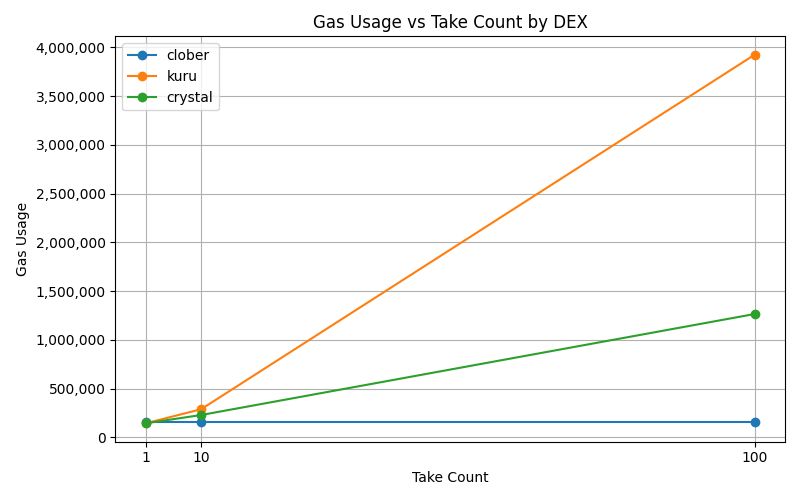
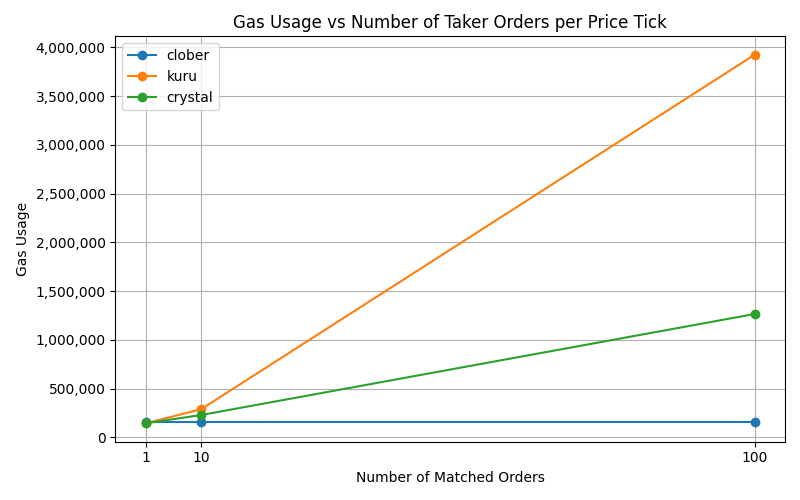
docs: update README.md for clarity on gas usage benchmark and improve plot titles

Changed region(s): [[0.2812, 0.03, 0.8438, 0.06], [0.4375, 0.93, 0.6875, 0.99]]

diff --git a/plot_take_results.py b/plot_take_results.py
@@ -48,8 +48,8 @@ for dex, results in data.items():
     gas_values = [results[c] for c in counts]
     plt.plot(counts, gas_values, marker='o', label=dex)
 
-plt.title("Gas Usage vs Take Count by DEX")
-plt.xlabel("Take Count")
+plt.title("Gas Usage vs Number of Taker Orders per Price Tick")
+plt.xlabel("Number of Matched Orders")
 plt.ylabel("Gas Usage")
 plt.xticks(xticks)
 plt.grid(True)

diff --git a/README.md b/README.md
@@ -1,10 +1,6 @@
 # Gas Usage Benchmark for Take Operations
 
-This benchmark measures the gas usage when taking multiple orders in a single tick across different DEX implementations.
-
-## 📊 Results
-
-Gas usage for **take operations** after placing `N` orders in the same tick:
+This benchmark measures the gas cost of executing a taker order that matches against N maker orders resting at the same price level.
 
 | DEX                                  | N = 1   | N = 10  | N = 100  |
 |--------------------------------------|---------|---------|----------|
@@ -14,7 +10,18 @@ Gas usage for **take operations** after placing `N` orders in the same tick:
 
 ![result](result.png)
 
-> All values represent total gas used during a take operation after placing `N` limit orders in the same tick.
+As illustrated in the table and the chart below, Clober’s gas usage remains flat regardless of the number of maker orders matched at the same price tick. This is due to Clober’s architectural design, which guarantees O(1) gas complexity for take operations.
+
+By contrast, other DEX implementations show linear or worse growth in gas cost as the number of matched maker orders increases.
+
+This difference is more than just a performance optimization:
+> Clober ensures consistently low execution costs even in realistic market environments, where liquidity is fragmented across many small maker orders submitted by a wide range of participants.
+
+Such fragmented liquidity patterns are common in both traditional and DeFi markets. Without architecture designed for this reality, takers face unpredictable and rising costs. Clober's design avoids this by making gas usage independent of the number of matches.
+
+The core of this efficiency lies in Clober’s custom-built matching engine, LOBSTER, which is designed to operate under strict gas constraints while maintaining high throughput and deterministic performance.
+
+[Understanding LOBSTER: A gas-efficient Onchain Order Book Mechanism](https://blog.monad.xyz/blog/understanding-lobster)
 
 ## 🚀 How to Run
 
